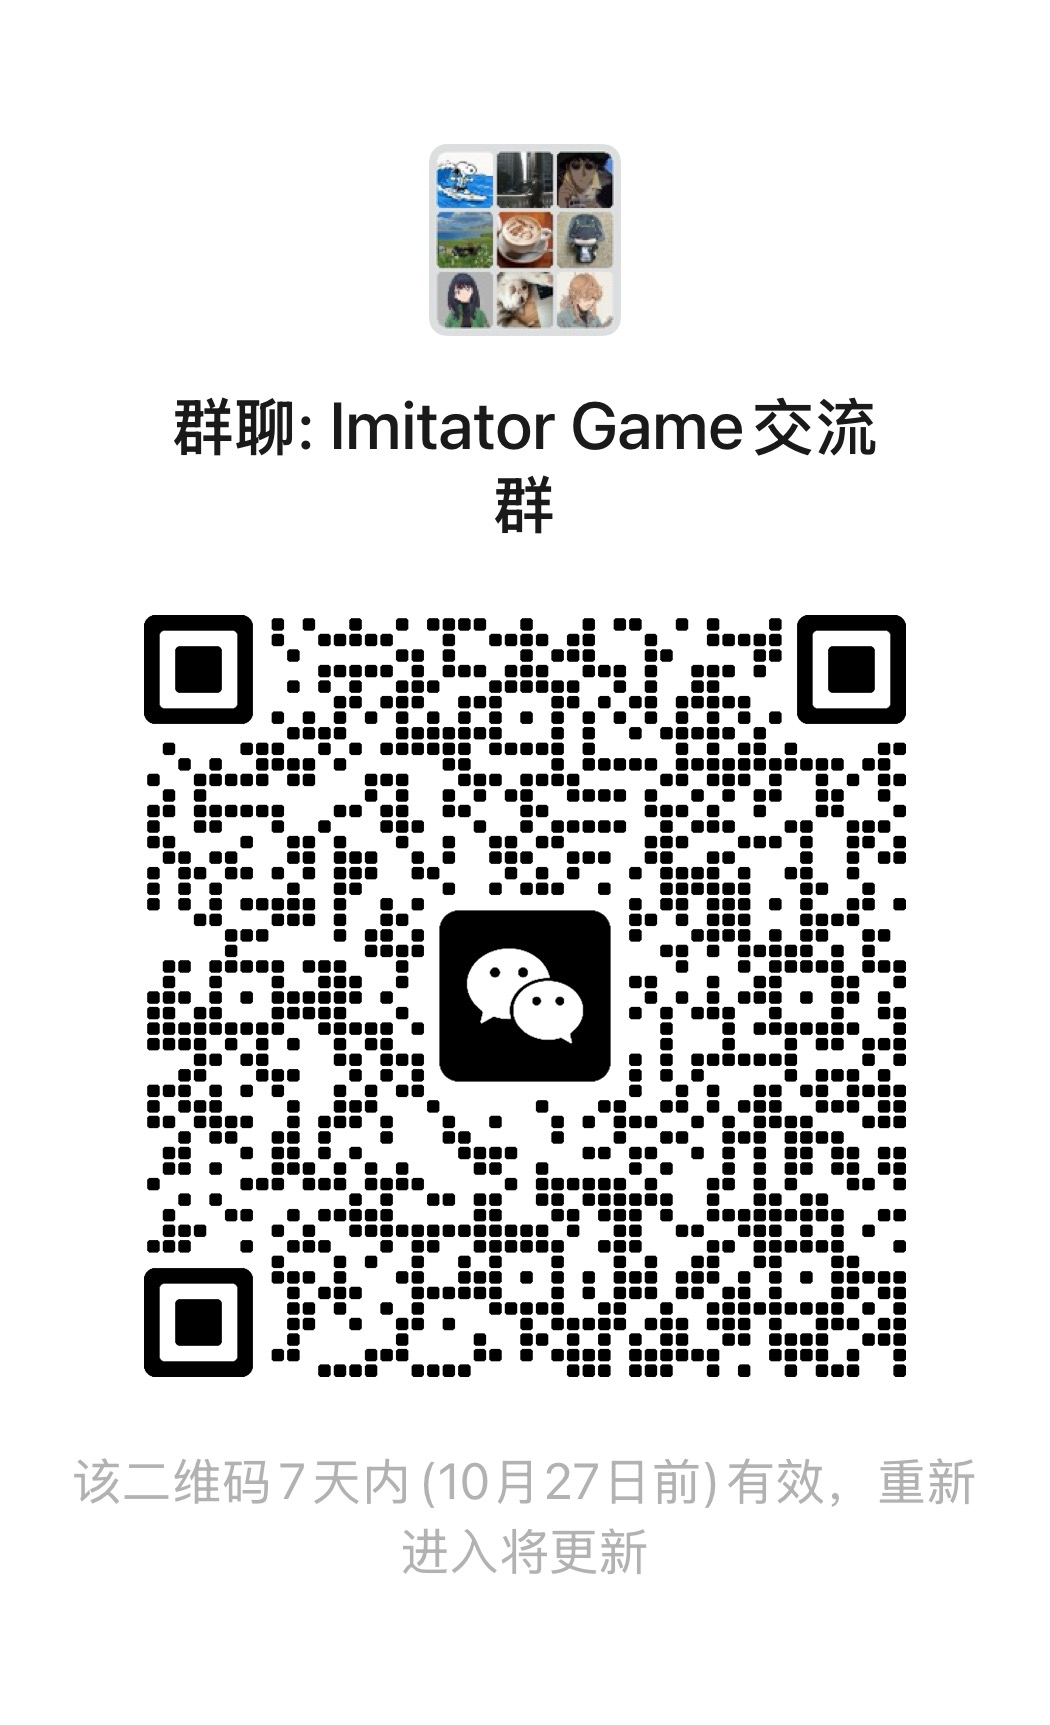
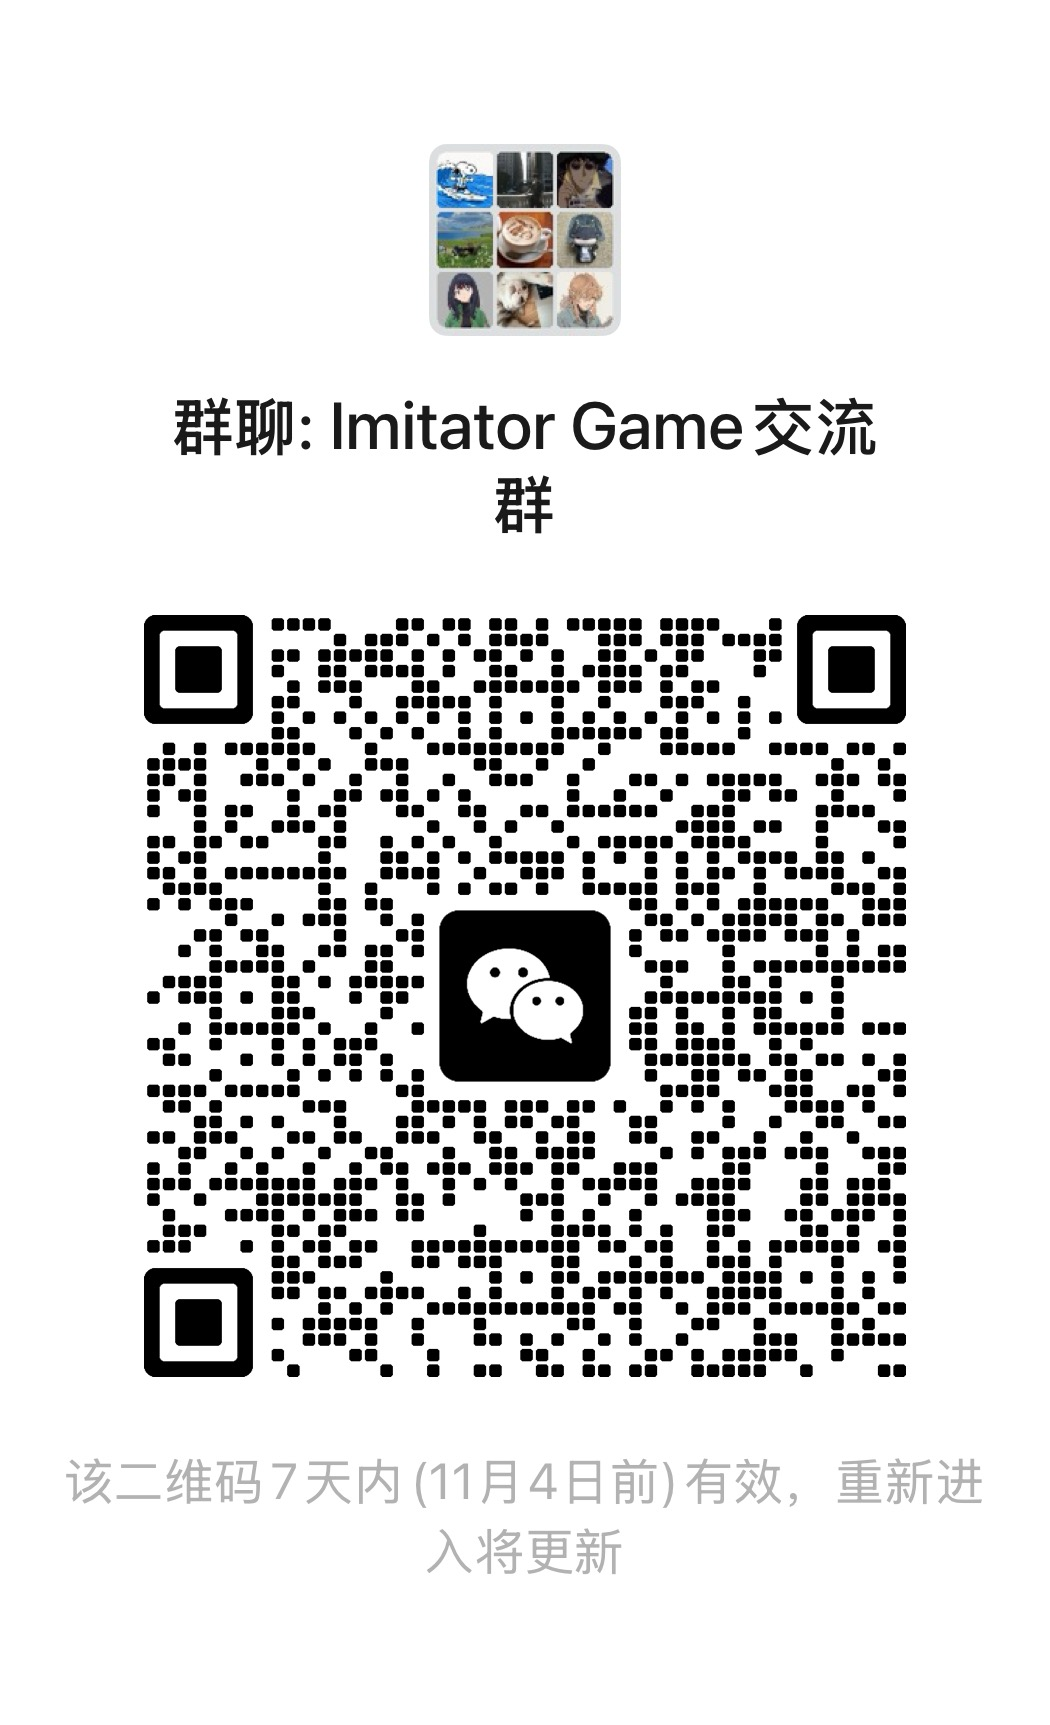
Add ckpt links; Update zerowam baseline; Update wechat qrcode

Changed region(s): [[0.1219, 0.338, 0.8838, 0.7988], [0.1524, 0.8296, 0.9448, 0.9217], [0.061, 0.8296, 0.1219, 0.891]]

diff --git a/assets/js/zero-wam-detail.js b/assets/js/zero-wam-detail.js
@@ -1,0 +1,81 @@
+window.ZERO_WAM_DETAIL = {
+  model: { key: "zero_wam", fam: "ICL", short: "Zero-WAM" },
+  seenTasks: ["TwoRobotFoldTowel", "TwoRobotPlaceFileFolder", "TwoRobotPlaceMugRack", "TwoRobotPlacePlateRack", "TwoRobotStirSpoon"],
+  unseenTasks: ["TwoRobotFoldBox", "TwoRobotPickFood", "TwoRobotPickRemoteControl", "TwoRobotPourKettle", "TwoRobotScanMilkBox"],
+  mean: {
+    seen: [
+      [[1,1],[.9,1],[.6666666667,.9302576999],[.8,.9420769572]],
+      [[.6,.8234501302],[.1666666667,.6327121059],[.7666666667,.8219034344],[.4666666667,.7663065096]],
+      [[.7333333333,.9940764467],[.5333333333,.9846067727],[.8333333333,.9957294087],[.0333333333,.9791417003]],
+      [[.9666666667,.9788059026],[.8666666667,.958573695],[.5,1],[.8333333333,.910920771]],
+      [[1,1],[.8333333333,.8984749526],[.9,.931186284],[.8,.8870275289]]
+    ],
+    zs: [
+      [[.4333333333,.4376347943],[.4,.4036419041],[.4,.4064740612],[.4333333333,.4376347943]],
+      [[0,.246567823],[.1,.4494462773],[0,.0320622022],[0,.2488153204]],
+      [[0,.2060728331],[0,.2290057997],[0,.0775819493],[0,.19727426]],
+      [[.3,.5309090684],[.0333333333,.3105278008],[0,.0411946733],[.3,.5496922404]],
+      [[.0333333333,.367413494],[.2,.5393183644],[.0333333333,.175731693],[0,.3445366581]]
+    ],
+    pft: [
+      [[.9,.9009045094],[1,1],[1,1],[.9,.9009045094]],
+      [[1,1],[.9,.9741704464],[.4333333333,.6645679906],[.9666666667,.9923029979]],
+      [[1,1],[1,1],[.9666666667,.9703329238],[.8,1]],
+      [[.8333333333,.9467001041],[.8,.9216273894],[0,.0187696643],[.7333333333,.9186720828]],
+      [[1,1],[.7333333333,.9093845705],[.7333333333,.7984367097],[.8666666667,.9633263508]]
+    ]
+  },
+  scratch: [
+    [[1,1],[.9,.9022954814],[.7,.7023690668],[1,1]],
+    [[.6,.8971786857],[.6,.8945702434],[0,.2774659067],[.3,.8502990961]],
+    [[1,1],[1,1],[.7,.7025516486],[.9,1]],
+    [[.7,.8174845338],[.7,.766068618],[0,.0299609151],[.8,.8514467716]],
+    [[.9,.9588321924],[.3,.7632541537],[.8,.8459756628],[.7,.8890673935]]
+  ],
+  scales: {
+    seen: {
+      "15": [[[1,1],[1,1],[.6,.887567],[.9,.971056]],[[.6,.813603],[0,.548735],[.8,.847494],[.3,.555411]],[[.5,.982229],[.4,.972893],[.8,1],[0,1]],[[1,1],[.8,1],[.5,1],[.9,1]],[[1,1],[1,1],[.8,.842258],[.7,.828813]]],
+      "30": [[[1,1],[.8,1],[.7,.95152],[.8,.942013]],[[.9,.960402],[.2,.670938],[.8,.847511],[.9,1]],[[1,1],[.5,.980927],[1,1],[.1,1]],[[1,1],[.8,.875721],[.6,1],[.9,.934398]],[[1,1],[.6,.75641],[.9,.951301],[.9,.944557]]],
+      "45": [[[1,1],[.9,1],[.7,.951686],[.7,.913162]],[[.3,.696345],[.3,.678463],[.7,.770706],[.2,.743508]],[[.7,1],[.7,1],[.7,.987188],[0,.937425]],[[.9,.936418],[1,1],[.4,1],[.7,.798364]],[[1,1],[.9,.939015],[1,1],[.8,.887713]]]
+    },
+    zs: {
+      "15": [[[.1,.107566],[.5,.502485],[.2,.213461],[.1,.107566]],[[0,.257817],[0,.200874],[0,.022623],[0,.264026]],[[0,.161205],[0,.173696],[0,.07574],[0,.149727]],[[.1,.394438],[0,.305371],[0,.016131],[.1,.34337]],[[0,.216676],[0,.326141],[0,.114819],[0,.194387]]],
+      "30": [[[.2,.205339],[.4,.406101],[.1,.105552],[.2,.205339]],[[0,.240754],[0,.352845],[0,.020897],[0,.225042]],[[0,.226366],[0,.22133],[0,.07632],[0,.22965]],[[.3,.513396],[0,.288557],[0,.00914],[.5,.656044]],[[.1,.339489],[.6,.844491],[.1,.221809],[0,.294377]]],
+      "45": [[[1,1],[.3,.302339],[.9,.90041],[1,1]],[[0,.241133],[.3,.794619],[0,.052666],[0,.257379]],[[0,.230647],[0,.291991],[0,.080686],[0,.212446]],[[.5,.684893],[.1,.337656],[0,.098312],[.3,.649662]],[[0,.546076],[0,.447324],[0,.190567],[0,.544845]]]
+    },
+    pft: {
+      "15": [[[.8,.801666],[1,1],[1,1],[.8,.801666]],[[1,1],[.7,.922511],[.3,.617443],[.9,.976909]],[[1,1],[1,1],[.9,.910999],[1,1]],[[.8,.934766],[.9,.967657],[0,.015279],[.5,.840095]],[[1,1],[.4,.797076],[.4,.552111],[1,1]]],
+      "30": [[[.9,.901048],[1,1],[1,1],[.9,.901048]],[[1,1],[1,1],[.7,.807725],[1,1]],[[1,1],[1,1],[1,1],[.9,1]],[[.9,.967327],[.6,.829742],[0,.015592],[.7,.915921]],[[1,1],[.9,.966872],[.9,.918317],[1,1]]],
+      "45": [[[1,1],[1,1],[1,1],[1,1]],[[1,1],[1,1],[.3,.568536],[1,1]],[[1,1],[1,1],[1,1],[.5,1]],[[.8,.938007],[.9,.967483],[0,.025438],[1,1]],[[1,1],[.9,.964206],[.9,.924882],[.6,.889979]]]
+    }
+  }
+};
+
+(function () {
+  var D = window.SIM_DETAIL;
+  var Z = window.ZERO_WAM_DETAIL;
+  if (!D || !Z) return;
+  if (!D.models.some(function (m) { return m.key === Z.model.key; })) D.models.unshift(Z.model);
+  ["seen", "zs", "pft"].forEach(function (regime) {
+    ["15", "30", "45", "mean"].forEach(function (scale) {
+      var block = D[regime][scale] || (D[regime][scale] = {});
+      var source = scale === "mean" ? Z.mean[regime] : Z.scales[regime][scale];
+      var tasks = regime === "seen" ? Z.seenTasks : Z.unseenTasks;
+      tasks.forEach(function (taskKey, taskIndex) {
+        block[taskKey] = block[taskKey] || {};
+        for (var levelIndex = 0; levelIndex < 4; levelIndex++) {
+          block[taskKey]["L" + levelIndex] = block[taskKey]["L" + levelIndex] || {};
+          block[taskKey]["L" + levelIndex].zero_wam = source[taskIndex][levelIndex];
+        }
+      });
+    });
+  });
+  var scratch = D.scr || (D.scr = {});
+  Z.unseenTasks.forEach(function (taskKey, taskIndex) {
+    scratch[taskKey] = scratch[taskKey] || {};
+    for (var levelIndex = 0; levelIndex < 4; levelIndex++) {
+      scratch[taskKey]["L" + levelIndex] = scratch[taskKey]["L" + levelIndex] || {};
+      scratch[taskKey]["L" + levelIndex].zero_wam = Z.scratch[taskIndex][levelIndex];
+    }
+  });
+}());

diff --git a/assets/js/leaderboard.js b/assets/js/leaderboard.js
@@ -162,7 +162,7 @@
       // human quality score exists for this regime, so Quality falls
       // back to the SR series here rather than showing empty cells.
       var byFam = IG.figC5.simSeenByFamily;
-      var rows = [{ name: "All 15 variants", fam: null, src: src, tone: "var(--fig-grey)",
+       var rows = [{ name: "All 16 variants", fam: null, src: src, tone: "var(--fig-grey)",
                     L0: IG.figC5.simSeenAll[0], L1: IG.figC5.simSeenAll[1],
                     L2: IG.figC5.simSeenAll[2], L3: IG.figC5.simSeenAll[3] }];
       ["VLA", "Skill", "VideoVA"].forEach(function (f) {
@@ -217,11 +217,28 @@
     var D = window.SIM_DETAIL;
     if (!D) return { rows: [], cols: [{ key: "name", label: "Task", type: "name", sortable: false }], note: "Per-task data not loaded (sim-detail-data.js)." };
 
+    var Z = window.ZERO_WAM_DETAIL;
+    if (Z && !D.models.some(function (m) { return m.key === Z.model.key; })) {
+      D.models = [Z.model].concat(D.models);
+    }
+
     var mi = state.metric === "sub" ? 1 : 0;           // 0 = SR, 1 = SubSR
     var reg = state.regime;                            // seen | zs | scr | pft
     var isScr = reg === "scr";
     /* seen/zs/pft → per-scale blocks keyed by scale; scr → flat block */
     var block = isScr ? (D.scr || {}) : ((D[reg] || {})[state.scale] || (D[reg] || {}).mean || {});
+
+    if (Z) {
+      var zGroup = isScr ? Z.scratch : (state.scale === "mean" ? Z.mean[reg] : Z.scales[reg][state.scale]);
+      var zTasks = state.regime === "seen" ? Z.seenTasks : Z.unseenTasks;
+      zTasks.forEach(function (taskKey, taskIndex) {
+        block[taskKey] = block[taskKey] || {};
+        for (var levelIndex = 0; levelIndex < 4; levelIndex++) {
+          block[taskKey]["L" + levelIndex] = block[taskKey]["L" + levelIndex] || {};
+          block[taskKey]["L" + levelIndex].zero_wam = zGroup[taskIndex][levelIndex];
+        }
+      });
+    }
 
     /* Model columns, grouped by paradigm for the two-row header.
        Family chips (state.famOff) hide whole paradigm groups. */
@@ -287,7 +304,8 @@
     var scaleNote = isScr ? " From-scratch has no pretraining scale — one flat result."
       : (state.scale === "mean"
           ? " Cells average over the {15,30,45} pretraining scales."
-          : " Showing the " + state.scale + "-task pretraining scale only.");
+          : (Z ? " Showing the " + state.scale + "-task pretraining scale for the published baselines; Zero-WAM remains at its merged mean."
+              : " Showing the " + state.scale + "-task pretraining scale only."));
 
     return { rows: rows.concat([avg]), cols: cols, groups: groups,
              note: NOTE + lvlNote + scaleNote + " " + metNote,
@@ -416,7 +434,7 @@
   }
 
   function defaultNote() {
-    if (state.board === "sim") return "15 trained variants across 3 paradigms, automated metric. The ranking by Seen SR and by P+FT SR are not the same list — try sorting by each.";
+     if (state.board === "sim") return "16 trained variants across 3 paradigms, automated metric. The ranking by Seen SR and by P+FT SR are not the same list — try sorting by each.";
     if (state.board === "real") return "4 representative models, Arena-judged by blind human comparison. All four regimes (Seen, Zero-shot, From-scratch, Pretrain+fine-tune) are shown side by side.";
     return "";
   }

diff --git a/index.html b/index.html
@@ -148,6 +148,7 @@
             <i class="fab fa-github"></i>&ensp;Code
           </a>
           <a href="data.html" class="pst-btn pst-btn-lg"><i class="fas fa-database"></i>&ensp;IG-10K</a>
+          <a href="data.html#checkpoints" class="pst-btn pst-btn-lg"><i class="fas fa-cube"></i>&ensp;Checkpoints</a>
           <a href="leaderboard.html" class="pst-btn pst-btn-lg"><i class="fas fa-ranking-star"></i>&ensp;Leaderboard</a>
           <a href="documentation.html" class="pst-btn pst-btn-lg"><i class="fas fa-book"></i>&ensp;Documentation</a>
           <a href="community.html" class="pst-btn pst-btn-lg"><i class="fas fa-people-group"></i>&ensp;Community</a>
@@ -175,8 +176,8 @@
           </div>
           <div>
             <span class="hero-metric-v" style="color:var(--fig-vla)"
-                  data-count-to="15">0</span>
-            <span class="hero-metric-l">evaluation variants<br> on the board</span>
+                   data-count-to="16">0</span>
+             <span class="hero-metric-l">evaluation variants<br> on the board</span>
           </div>
         </div>
       </div>
@@ -186,7 +187,7 @@
       </a>
     </div>
 
-    <!-- ══════════════════════════════════════════════════════
+     <!-- ══════════════════════════════════════════════════════
          2 · THE STORY — pinned stage, scrolling argument
          ★ FILM THESE. Each frame below wants one clip.
     ══════════════════════════════════════════════════════ -->
@@ -659,7 +660,7 @@
     <!-- ══════════════════════════════════════════════════════
          3 · WHAT THIS PLATFORM IS
     ══════════════════════════════════════════════════════ -->
-    <div class="lp-band lp-band-white" id="platform">
+     <div class="lp-band lp-band-white" id="platform">
       <div class="lp-inner">
         <div class="ig-eyebrow" data-reveal="up"><i class="fas fa-cubes"></i>The platform</div>
         <h2 class="paper-section-title" data-reveal="up" data-reveal-delay="60">Four things you can use today</h2>

diff --git a/leaderboard.html b/leaderboard.html
@@ -64,7 +64,7 @@
         <div class="ig-eyebrow" data-reveal="up"><i class="fas fa-ranking-star"></i>Standings</div>
         <h1 class="lb-title" data-split="45" data-reveal>Who imitates best?</h1>
         <p class="lb-sub" data-reveal="up" data-reveal-delay="200">
-          Nine models, fifteen variants, scored in 40 evaluation tasks in two ways: an automated metric in simulation,
+          Nine models, sixteen variants, scored in 40 evaluation tasks in two ways: an automated metric in simulation,
           and blind human comparisons in the Arena for both simulation and real world.
         </p>
 
@@ -100,6 +100,7 @@
         <span class="lb-chip" data-fam="VLA" style="--chip:var(--fig-vla)">VLA</span>
         <span class="lb-chip" data-fam="Skill" style="--chip:var(--fig-skill)">Video-Skill</span>
         <span class="lb-chip" data-fam="VideoVA" style="--chip:var(--fig-videova)">Video-VA</span>
+        <span class="lb-chip" data-fam="ICL" style="--chip:var(--fig-icl)">ICL</span>
         <input id="lb-search" class="lb-search" type="search" placeholder="Find a model…" aria-label="Find a model">
       </div>
     </div>
@@ -143,7 +144,8 @@
       </div>
 
       <p class="lb-note" style="margin-top:1rem;">
-        This board — and every other model comparison on the site — is scored on a fixed protocol: <b>5 seen and
+        Zero-WAM is currently reported for the automated simulation board; real-world Arena results are not reported
+        for this submission. This board — and every other model comparison on the site — is scored on a fixed protocol: <b>5 seen and
         5 unseen tasks</b>, each at all four imitation levels, in both simulation and the real world. IG-10K's full
         task suite is larger; see <a href="#full-suite">the 50-task reference below</a> for how far that goes.
       </p>
@@ -240,6 +242,7 @@
 <script src="assets/js/manifest-data.js"></script>
 <script src="assets/js/charts.js"></script>
 <script src="assets/js/sim-detail-data.js"></script>
+<script src="assets/js/zero-wam-detail.js"></script>
 <script src="assets/js/full-task-suite-data.js"></script>
 <script src="assets/js/full-task-suite.js"></script>
 <script src="assets/js/leaderboard.js"></script>

diff --git a/assets/js/figdata.js b/assets/js/figdata.js
@@ -38,7 +38,8 @@ window.IG = (function () {
   var FAMILY = {
     VLA:     { key: "VLA",     label: "Language-conditioned VLA", short: "VLA",         color: "var(--fig-vla)",     marker: "circle" },
     Skill:   { key: "Skill",   label: "Cross-embodiment skill",   short: "Video-Skill", color: "var(--fig-skill)",   marker: "square" },
-    VideoVA: { key: "VideoVA", label: "Video-conditioned VA",     short: "Video-VA",    color: "var(--fig-videova)", marker: "triangle" }
+    VideoVA: { key: "VideoVA", label: "Video-conditioned VA",     short: "Video-VA",    color: "var(--fig-videova)", marker: "triangle" },
+    ICL:     { key: "ICL",     label: "In-context learning",       short: "ICL",        color: "var(--fig-icl)",     marker: "diamond" }
   };
 
   /* ── Simulation: 15 trained variants ─────────────────────────
@@ -60,6 +61,7 @@ window.IG = (function () {
     { model: "UniSkill",        fam: "Skill",   enc: null,       seen: .75, seenSub: .89, zs: .07, zsSub: .17, scr: .27, scrSub: .46, pft: .59, pftSub: .76 },
     { model: "π₀.₅",            fam: "VLA",     enc: null,       seen: .73, seenSub: .89, zs: .09, zsSub: .22, scr: .80, scrSub: .86, pft: .85, pftSub: .91 },
     { model: "ACT/VideoMAE",    fam: "VideoVA", enc: "VideoMAE", seen: .72, seenSub: .88, zs: .04, zsSub: .14, scr: .63, scrSub: .76, pft: .82, pftSub: .87 },
+    { model: "Zero-WAM",         fam: "ICL",     enc: null,       seen: .71, seenSub: .92, zs: .1333, zsSub: .3116, scr: .68, scrSub: .8074, pft: .8283, pftSub: .8940 },
     { model: "DP/DINOv2",       fam: "VideoVA", enc: "DINOv2",   seen: .67, seenSub: .84, zs: .07, zsSub: .21, scr: .13, scrSub: .36, pft: .54, pftSub: .73 },
     { model: "DP/SigLIP2",      fam: "VideoVA", enc: "SigLIP2",  seen: .61, seenSub: .84, zs: .05, zsSub: .20, scr: .11, scrSub: .35, pft: .48, pftSub: .69 },
     { model: "VQ-BeT/SigLIP2",  fam: "VideoVA", enc: "SigLIP2",  seen: .57, seenSub: .78, zs: .08, zsSub: .23, scr: .26, scrSub: .46, pft: .17, pftSub: .34 },

diff --git a/data.html b/data.html
@@ -86,6 +86,21 @@
             <pre><code>modelscope download --dataset Zhouxunzhe/IG-10K-Dataset --local_dir demos</code></pre>
           </div>
         </article>
+        <article class="download-card ig-lift" id="checkpoints">
+          <div class="doc-card-icon"><i class="fas fa-cube"></i></div>
+          <h2>IG-10K Checkpoints</h2>
+          <p>Baseline checkpoints evaluated in the paper and released for reproducible research.</p>
+          <a class="download-link" href="https://huggingface.co/imitator-game/IG-10K-Checkpoints" target="_blank" rel="noopener">Hugging Face <i class="fas fa-arrow-up-right-from-square"></i></a>
+          <div class="code-block">
+            <div class="code-block-header"><span class="code-block-lang">bash</span><button class="code-copy-btn" type="button">Copy</button></div>
+            <pre><code>hf download imitator-game/IG-10K-Checkpoints --local-dir checkpoints</code></pre>
+          </div>
+          <a class="download-link" href="https://modelscope.cn/models/Zhouxunzhe/IG-10K-Checkpoints" target="_blank" rel="noopener">ModelScope <i class="fas fa-arrow-up-right-from-square"></i></a>
+          <div class="code-block">
+            <div class="code-block-header"><span class="code-block-lang">bash</span><button class="code-copy-btn" type="button">Copy</button></div>
+            <pre><code>modelscope download --model Zhouxunzhe/IG-10K-Checkpoints --local_dir checkpoints</code></pre>
+          </div>
+        </article>
       </div>
 
       <section class="download-notes doc-prose">

diff --git a/docs/guide.html b/docs/guide.html
@@ -80,7 +80,7 @@
             <div class="hero-cta" data-reveal="up" data-reveal-delay="280" style="margin-top:1.4rem;">
               <a class="pst-btn pst-btn-primary pst-btn-lg" href="getting-started.html"><i class="fas fa-download"></i>&ensp;Install</a>
               <a class="pst-btn pst-btn-lg" href="quickstart.html"><i class="fas fa-bolt"></i>&ensp;Quickstart</a>
-              <a class="pst-btn pst-btn-lg" href="../data.html"><i class="fas fa-database"></i>&ensp;Get the data</a>
+              <a class="pst-btn pst-btn-lg" href="../data.html#checkpoints"><i class="fas fa-database"></i>&ensp;Get data &amp; checkpoints</a>
             </div>
           </div>
         </div>
@@ -140,9 +140,9 @@
           <div class="paper-section-eyebrow" style="font-size:1.0rem;"><i class="fas fa-database"></i> Data</div>
         </div>
         <div class="doc-card-grid" data-stagger="80">
-          <a href="../data.html" class="doc-card ig-lift">
+           <a href="../data.html#checkpoints" class="doc-card ig-lift">
             <div class="doc-card-icon"><i class="fas fa-cloud-arrow-down"></i></div>
-            <div class="doc-card-title">Data &amp; downloads</div>
+             <div class="doc-card-title">Data &amp; checkpoints</div>
             <div class="doc-card-desc">
               Find the complete IG-10K dataset and shared simulation assets through the
               Hugging Face and ModelScope mirrors, and see where the files go on disk.

diff --git a/docs/quickstart.html b/docs/quickstart.html
@@ -96,6 +96,12 @@
 
           <h2 id="env-overview">Environment overview</h2>
           <p>
+            The evaluated baseline checkpoints are available from the
+            <a href="../data.html#checkpoints">data and checkpoints page</a>, with mirrors on
+            <a href="https://huggingface.co/imitator-game/IG-10K-Checkpoints" target="_blank" rel="noopener">Hugging Face</a>
+            and <a href="https://modelscope.cn/models/Zhouxunzhe/IG-10K-Checkpoints" target="_blank" rel="noopener">ModelScope</a>.
+          </p>
+          <p>
             Every benchmark task is registered as a Gymnasium environment. The base environment
             <code>TwoRobot{Task}-v1</code> hosts levels <strong>L0</strong>, <strong>L1</strong> and
             <strong>L2</strong>; each L3 variant is a standalone environment registered as

diff --git a/docs/baselines.html b/docs/baselines.html
@@ -192,7 +192,9 @@ python -m examples.baselines.act.train_act_imitator \
             Additional model hyperparameters used in the reported ablation runs:
             <code>--hidden-dim 1024 --dim-feedforward 4096 --nheads 16 --enc-layers 12 --dec-layers 12</code>.
             Checkpoints are written to <code>runs/&lt;run_name&gt;/checkpoints/</code>, including
-            <code>final_model.pt</code>.
+            <code>final_model.pt</code>. Evaluated baseline checkpoints are also available from
+            <a href="https://huggingface.co/imitator-game/IG-10K-Checkpoints" target="_blank" rel="noopener">Hugging Face</a>
+            and <a href="https://modelscope.cn/models/Zhouxunzhe/IG-10K-Checkpoints" target="_blank" rel="noopener">ModelScope</a>.
           </p>
 
           <h2 id="diffusion">Diffusion Policy</h2>

diff --git a/submit.html b/submit.html
@@ -98,7 +98,7 @@
         <div class="ig-eyebrow" data-reveal="up"><i class="fas fa-puzzle-piece"></i>Why it scales</div>
         <h2 class="paper-section-title" data-reveal="up" data-reveal-delay="60">Simple and unified interface</h2>
         <p class="paper-section-body" data-reveal="up" data-reveal-delay="100">
-          Every one of the fifteen variants already on the board went through the same three contracts your
+          Every one of the sixteen variants already on the board went through the same three contracts your
           submission will. Follow them and your policy, task, or robot slots in cleanly.
         </p>
 

diff --git a/assets/css/landing.css b/assets/css/landing.css
@@ -111,6 +111,8 @@ body.landing-page .pst-header-nav { display: flex !important; }
   .venue-badge-conf,
   .venue-badge-oral { text-align: center; line-height: 1.35; }
 }
+.hero-resource-row { margin-top: .15rem; }
+.hero-resource-row a { text-decoration: none; }
 
 /* ── Section band system ─────────────────────────────────────── */
 /* Strips the default pst-main vertical padding; each band owns its spacing */

diff --git a/assets/css/style.css b/assets/css/style.css
@@ -49,6 +49,7 @@
   --l1: #0071e3; --l1-bg: #e8f1fd;
   --l2: #ff9500; --l2-bg: #fff1de;
   --l3: #ff3b30; --l3-bg: #ffe5e3;
+  --fig-icl: #af52de;
 }
 
 [data-theme="dark"] {
@@ -72,6 +73,7 @@
   --warning: #f0b45b;  --warning-bg: rgba(240,180,91,0.18);
   --danger:  #df596a;  --danger-bg:  rgba(223,89,106,0.18);
   --info:    #58b7c6;  --info-bg:    rgba(49,154,172,0.18);
+  --fig-icl: #d084f2;
 
   --shadow:
     0 1px 2px rgba(0,0,0,0.18),
